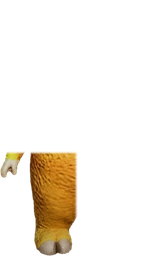
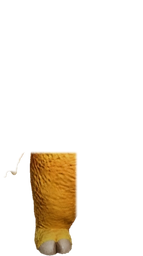
fix(web): 桌宠分层修手部残影/腰缝 + 挣扎幅度加大、放下松气可见
- build_pet_puppet：split_arm 返回自身 mask，split_leg 以 exclude_masks
  剔除垂过胯线的手掌——此前手掌同时进手臂与腿图层，静止时双重绘制显腰缝、
  摆臂时腿图层里的静态副本留残影
- pet.css 挣扎加大幅度与节奏（踢腿 ±16°/摆臂 -30°~20°/甩头 ±7°/外壳 0.4s
  四帧扭动），放下改为 pet-relief 类驱动的一次性多层动画（落地一瘫回弹 +
  双臂垂落 + 低头叹气再抬头，~0.95s），reduced-motion 下全部关闭

Changed region(s): [[0.0, 0.5938, 0.1678, 0.7188]]

diff --git a/apps/web/src/components/pet/pet.css b/apps/web/src/components/pet/pet.css
@@ -257,19 +257,52 @@
   50% { transform: rotate(1.5deg) translateY(-1.5%); }
 }
 
-/* 被拖拽拎起（外壳 .pet-dragging）：挣扎——四肢扑腾 + 头甩动 */
-.pet-dragging .niulai .n-leg-l { animation: n-kick 0.3s ease-in-out infinite; }
-.pet-dragging .niulai .n-leg-r { animation: n-kick 0.3s ease-in-out -0.15s infinite; }
-.pet-dragging .niulai .n-arm-l { animation: n-flail 0.3s ease-in-out infinite; }
-.pet-dragging .niulai .n-arm-r { animation: n-flail 0.3s ease-in-out -0.15s infinite; }
-.pet-dragging .niulai .n-head { animation: n-wobble 0.4s ease-in-out infinite; }
+/* 被拖拽拎起（外壳 .pet-dragging）：挣扎——四肢大幅扑腾 + 头用力甩动 */
+.pet-dragging .niulai .n-leg-l { animation: n-kick 0.28s ease-in-out infinite; }
+.pet-dragging .niulai .n-leg-r { animation: n-kick 0.28s ease-in-out -0.14s infinite; }
+.pet-dragging .niulai .n-arm-l { animation: n-flail 0.28s ease-in-out infinite; }
+.pet-dragging .niulai .n-arm-r { animation: n-flail 0.28s ease-in-out -0.14s infinite; }
+.pet-dragging .niulai .n-head { animation: n-head-shake 0.35s ease-in-out infinite; }
 @keyframes n-kick {
-  0%, 100% { transform: rotate(14deg) translateY(-2%); }
-  50% { transform: rotate(-11deg); }
+  0%, 100% { transform: rotate(16deg) translateY(-3%); }
+  50% { transform: rotate(-13deg); }
 }
 @keyframes n-flail {
-  0%, 100% { transform: rotate(-22deg); }
-  50% { transform: rotate(14deg); }
+  0%, 100% { transform: rotate(-30deg); }
+  50% { transform: rotate(20deg); }
+}
+@keyframes n-head-shake {
+  0%, 100% { transform: rotate(-7deg); }
+  50% { transform: rotate(7deg); }
+}
+
+/* 拖拽放下（外壳 .pet-relief，一次性 ~0.95s）：松了一口气——
+   整体落地一瘫再回弹 + 双臂向外垂落 + 头低下叹气再抬起 */
+.pet-relief .pet-stage { animation: pet-relief 0.95s ease-out; }
+.pet-relief .niulai .n-arm-l { animation: n-relief-arm-l 0.95s ease-out; }
+.pet-relief .niulai .n-arm-r { animation: n-relief-arm-r 0.95s ease-out; }
+.pet-relief .niulai .n-head { animation: n-relief-head 0.95s ease-out; }
+@keyframes pet-relief {
+  0% { transform: scale(1.06); }
+  25% { transform: scale(1.14, 0.84) translateY(4%); }
+  55% { transform: scale(0.95, 1.06) translateY(-1.5%); }
+  78% { transform: scale(1.03, 0.97) translateY(1%); }
+  100% { transform: scale(1, 1) translateY(0); }
+}
+@keyframes n-relief-arm-l {
+  0%, 100% { transform: rotate(0deg); }
+  30% { transform: rotate(11deg); }
+  70% { transform: rotate(4deg); }
+}
+@keyframes n-relief-arm-r {
+  0%, 100% { transform: rotate(0deg); }
+  30% { transform: rotate(-11deg); }
+  70% { transform: rotate(-4deg); }
+}
+@keyframes n-relief-head {
+  0%, 100% { transform: rotate(0deg) translateY(0); }
+  30% { transform: rotate(6deg) translateY(2.5%); }
+  65% { transform: rotate(3deg) translateY(1%); }
 }
 
 /* 瞌睡（外壳 .pet-sleeping）：头低垂（盖过 idle 的头轻摆） */
@@ -350,12 +383,14 @@
 
 /* 拖拽中（DRAG 最高优先级）：拎起 + 扭动挣扎 */
 .pet-dragging .pet-stage {
-  animation: pet-struggle 0.45s ease-in-out infinite;
+  animation: pet-struggle 0.4s ease-in-out infinite;
   transition: none;
 }
 @keyframes pet-struggle {
-  0%, 100% { transform: scale(1.05) rotate(3.5deg); }
-  50% { transform: scale(1.05) rotate(-3.5deg); }
+  0%, 100% { transform: scale(1.08) rotate(5deg) translateY(-1%); }
+  25% { transform: scale(1.08) rotate(1deg) translateY(1%); }
+  50% { transform: scale(1.08) rotate(-5deg) translateY(-1%); }
+  75% { transform: scale(1.08) rotate(-1deg) translateY(1%); }
 }
 
 /* 走动（WALK）：轻微起伏（迈步动作在腿部图层上）；左走时立绘水平翻转 */
@@ -407,8 +442,10 @@
 @media (prefers-reduced-motion: reduce) {
   .niulai-anim *, .niulai-anim .n-layer { animation: none !important; }
   .pet-walking .niulai .n-layer,
-  .pet-dragging .niulai .n-layer { animation: none !important; }
+  .pet-dragging .niulai .n-layer,
+  .pet-relief .niulai .n-layer { animation: none !important; }
   .pet-walking .pet-stage { animation: none !important; }
-  .pet-dragging .pet-stage { animation: none !important; transform: scale(1.05); }
+  .pet-dragging .pet-stage { animation: none !important; transform: scale(1.08); }
+  .pet-relief .pet-stage { animation: none !important; }
   .pet-zzz i { animation: none; opacity: 0.75; }
 }

diff --git a/apps/web/src/components/pet/PetFloat.tsx b/apps/web/src/components/pet/PetFloat.tsx
@@ -187,21 +187,22 @@ function PetFloatShell({ state }: { state: PetState }): React.ReactElement {
     }, DOUBLE_CLICK_MS)
   }
 
-  // 拖拽放下（真的移动了位置）：松了一口气——落地一瘫再缓缓恢复
+  // 拖拽放下（真的移动了位置）：松了一口气——pet-relief 类驱动的多层一次性动画
+  // （落地一瘫回弹 + 双臂垂落 + 低头叹气再抬头）。类切换可能撞上连续拖拽，
+  // 先移除再在下一帧加回，强制重启动画
+  const [relief, setRelief] = React.useState(false)
+  const reliefTimerRef = React.useRef<number | null>(null)
   const playRelief = (): void => {
     if (window.matchMedia('(prefers-reduced-motion: reduce)').matches) return
-    const el = rootRef.current?.firstElementChild
-    if (!el) return
-    el.animate(
-      [
-        { transform: 'scale(1, 1) translateY(0)' },
-        { transform: 'scale(1.08, 0.88) translateY(2%)', offset: 0.22 },
-        { transform: 'scale(0.96, 1.04) translateY(-1%)', offset: 0.48 },
-        { transform: 'scale(1.02, 0.98)', offset: 0.72 },
-        { transform: 'scale(1, 1) translateY(0)' },
-      ],
-      { duration: 750, easing: 'ease-out' },
-    )
+    if (reliefTimerRef.current !== null) window.clearTimeout(reliefTimerRef.current)
+    setRelief(false)
+    requestAnimationFrame(() => {
+      setRelief(true)
+      reliefTimerRef.current = window.setTimeout(() => {
+        reliefTimerRef.current = null
+        setRelief(false)
+      }, 950)
+    })
   }
 
   const stopWalk = React.useCallback((): void => {
@@ -297,6 +298,7 @@ function PetFloatShell({ state }: { state: PetState }): React.ReactElement {
     () => () => {
       if (walkRafRef.current !== null) cancelAnimationFrame(walkRafRef.current)
       if (clickTimerRef.current !== null) window.clearTimeout(clickTimerRef.current)
+      if (reliefTimerRef.current !== null) window.clearTimeout(reliefTimerRef.current)
     },
     [],
   )
@@ -349,6 +351,7 @@ function PetFloatShell({ state }: { state: PetState }): React.ReactElement {
     dragging ? 'pet-dragging cursor-grabbing' : 'cursor-grab',
     walkDir ? `pet-walking${walkDir === 'left' ? ' pet-face-left' : ''}` : '',
     sleeping ? 'pet-sleeping' : '',
+    relief && !dragging ? 'pet-relief' : '',
   ]
     .filter(Boolean)
     .join(' ')

diff --git a/scripts/build_pet_puppet.py b/scripts/build_pet_puppet.py
@@ -145,11 +145,13 @@ def detect_arm_gaps(alpha: np.ndarray, side: str, band_top: int, band_bot: int) 
 
 def split_arm(
     rgb: np.ndarray, alpha: np.ndarray, body_a: np.ndarray, side: str, gaps: dict[int, int]
-) -> tuple[np.ndarray, np.ndarray, tuple[float, float]] | None:
-    """肩部枢轴直线 + 肘下缝隙线把手臂切下。返回 (arm_rgba, body_alpha, pivot)。
+) -> tuple[np.ndarray, np.ndarray, np.ndarray, tuple[float, float]] | None:
+    """肩部枢轴直线 + 肘下缝隙线把手臂切下。返回 (arm_rgba, body_alpha, arm_mask, pivot)。
 
     alpha 是完整剪影（手臂图层从它取像素）；body_a 是身体当前 alpha
     （已删掉头/先拆的臂），在此基础上继续减掉这条手臂。
+    arm_mask 同时返回给腿部拆分用——手掌垂在胯线以下，腿部竖切时必须剔除，
+    否则手掌被手臂、腿两个图层各画一遍（走路摆臂时留下残影）。
     """
     h, w = alpha.shape
     ys = sorted(gaps)
@@ -181,14 +183,20 @@ def split_arm(
 
     arm_a = (alpha.astype(np.float64) * (mask.astype(np.float64) / 255)).astype(np.uint8)
     new_body_a = (body_a.astype(np.float64) * (1 - mask.astype(np.float64) / 255)).astype(np.uint8)
-    return np.dstack([rgb, arm_a]), new_body_a, (px, float(py))
+    return np.dstack([rgb, arm_a]), new_body_a, mask, (px, float(py))
 
 
 def split_leg(
-    rgb: np.ndarray, alpha: np.ndarray, body_a: np.ndarray, key: str, crotch_x: int
+    rgb: np.ndarray,
+    alpha: np.ndarray,
+    body_a: np.ndarray,
+    key: str,
+    crotch_x: int,
+    exclude_masks: list[np.ndarray],
 ) -> tuple[np.ndarray, np.ndarray, tuple[float, float]]:
     """胯中线竖切 + 胯线横切拆出一条腿（正面直立像双腿粘连，直接对半竖切，
-    静止时两层像素完全一致，切缝不可见）。返回 (leg_rgba, body_alpha, pivot)。"""
+    静止时两层像素完全一致，切缝不可见）。返回 (leg_rgba, body_alpha, pivot)。
+    exclude_masks：需要先剔除的区域（垂过胯线的手掌），避免一个像素进两个图层。"""
     h, w = alpha.shape
     y0 = int(h * LEG_HIP_Y_FRAC)
     mask = np.zeros((h, w), np.uint8)
@@ -197,6 +205,8 @@ def split_leg(
     else:
         mask[y0:, crotch_x:] = 255
     mask = cv2.GaussianBlur(mask, (5, 5), 0)  # 切边羽化
+    for ex in exclude_masks:
+        mask = (mask.astype(np.float64) * (1 - ex.astype(np.float64) / 255)).astype(np.uint8)
 
     leg_a = (alpha.astype(np.float64) * (mask.astype(np.float64) / 255)).astype(np.uint8)
     new_body_a = (body_a.astype(np.float64) * (1 - mask.astype(np.float64) / 255)).astype(np.uint8)
@@ -251,6 +261,7 @@ def main() -> None:
 
     layers: dict[str, np.ndarray] = {"head": head_rgba}
     pivots: dict[str, tuple[float, float]] = {"head": head_pivot}
+    arm_masks: list[np.ndarray] = []
     band_top, band_bot = int(h * 0.40), int(h * 0.75)
     for side, key in (("left", "armL"), ("right", "armR")):
         gaps = detect_arm_gaps(alpha, side, band_top, band_bot)
@@ -258,19 +269,20 @@ def main() -> None:
         if result is None:
             print(f"{key}: 缝隙不足，放弃拆臂（该臂留在身体上）")
             continue
-        arm_rgba, body_a, pivot = result
+        arm_rgba, body_a, arm_mask, pivot = result
         layers[key] = arm_rgba
         pivots[key] = pivot
+        arm_masks.append(arm_mask)
         print(f"{key}: 缝隙行 {len(gaps)}，pivot=({pivot[0]:.0f},{pivot[1]:.0f})")
 
-    # 拆腿：胯线高度取躯干实体段中点作为胯中线
+    # 拆腿：胯线高度取躯干实体段中点作为胯中线；手掌垂在胯线以下，腿部要剔除手臂区域
     hip_y = int(h * LEG_HIP_Y_FRAC)
     hip_runs = row_runs(alpha[hip_y])
     if hip_runs:
         trunk = max(hip_runs, key=lambda r: r[1] - r[0])
         crotch_x = (trunk[0] + trunk[1]) // 2
         for key in ("legL", "legR"):
-            leg_rgba, body_a, pivot = split_leg(rgb, alpha, body_a, key, crotch_x)
+            leg_rgba, body_a, pivot = split_leg(rgb, alpha, body_a, key, crotch_x, arm_masks)
             layers[key] = leg_rgba
             pivots[key] = pivot
         print(f"legs: crotch x={crotch_x}, hip y={hip_y}")
